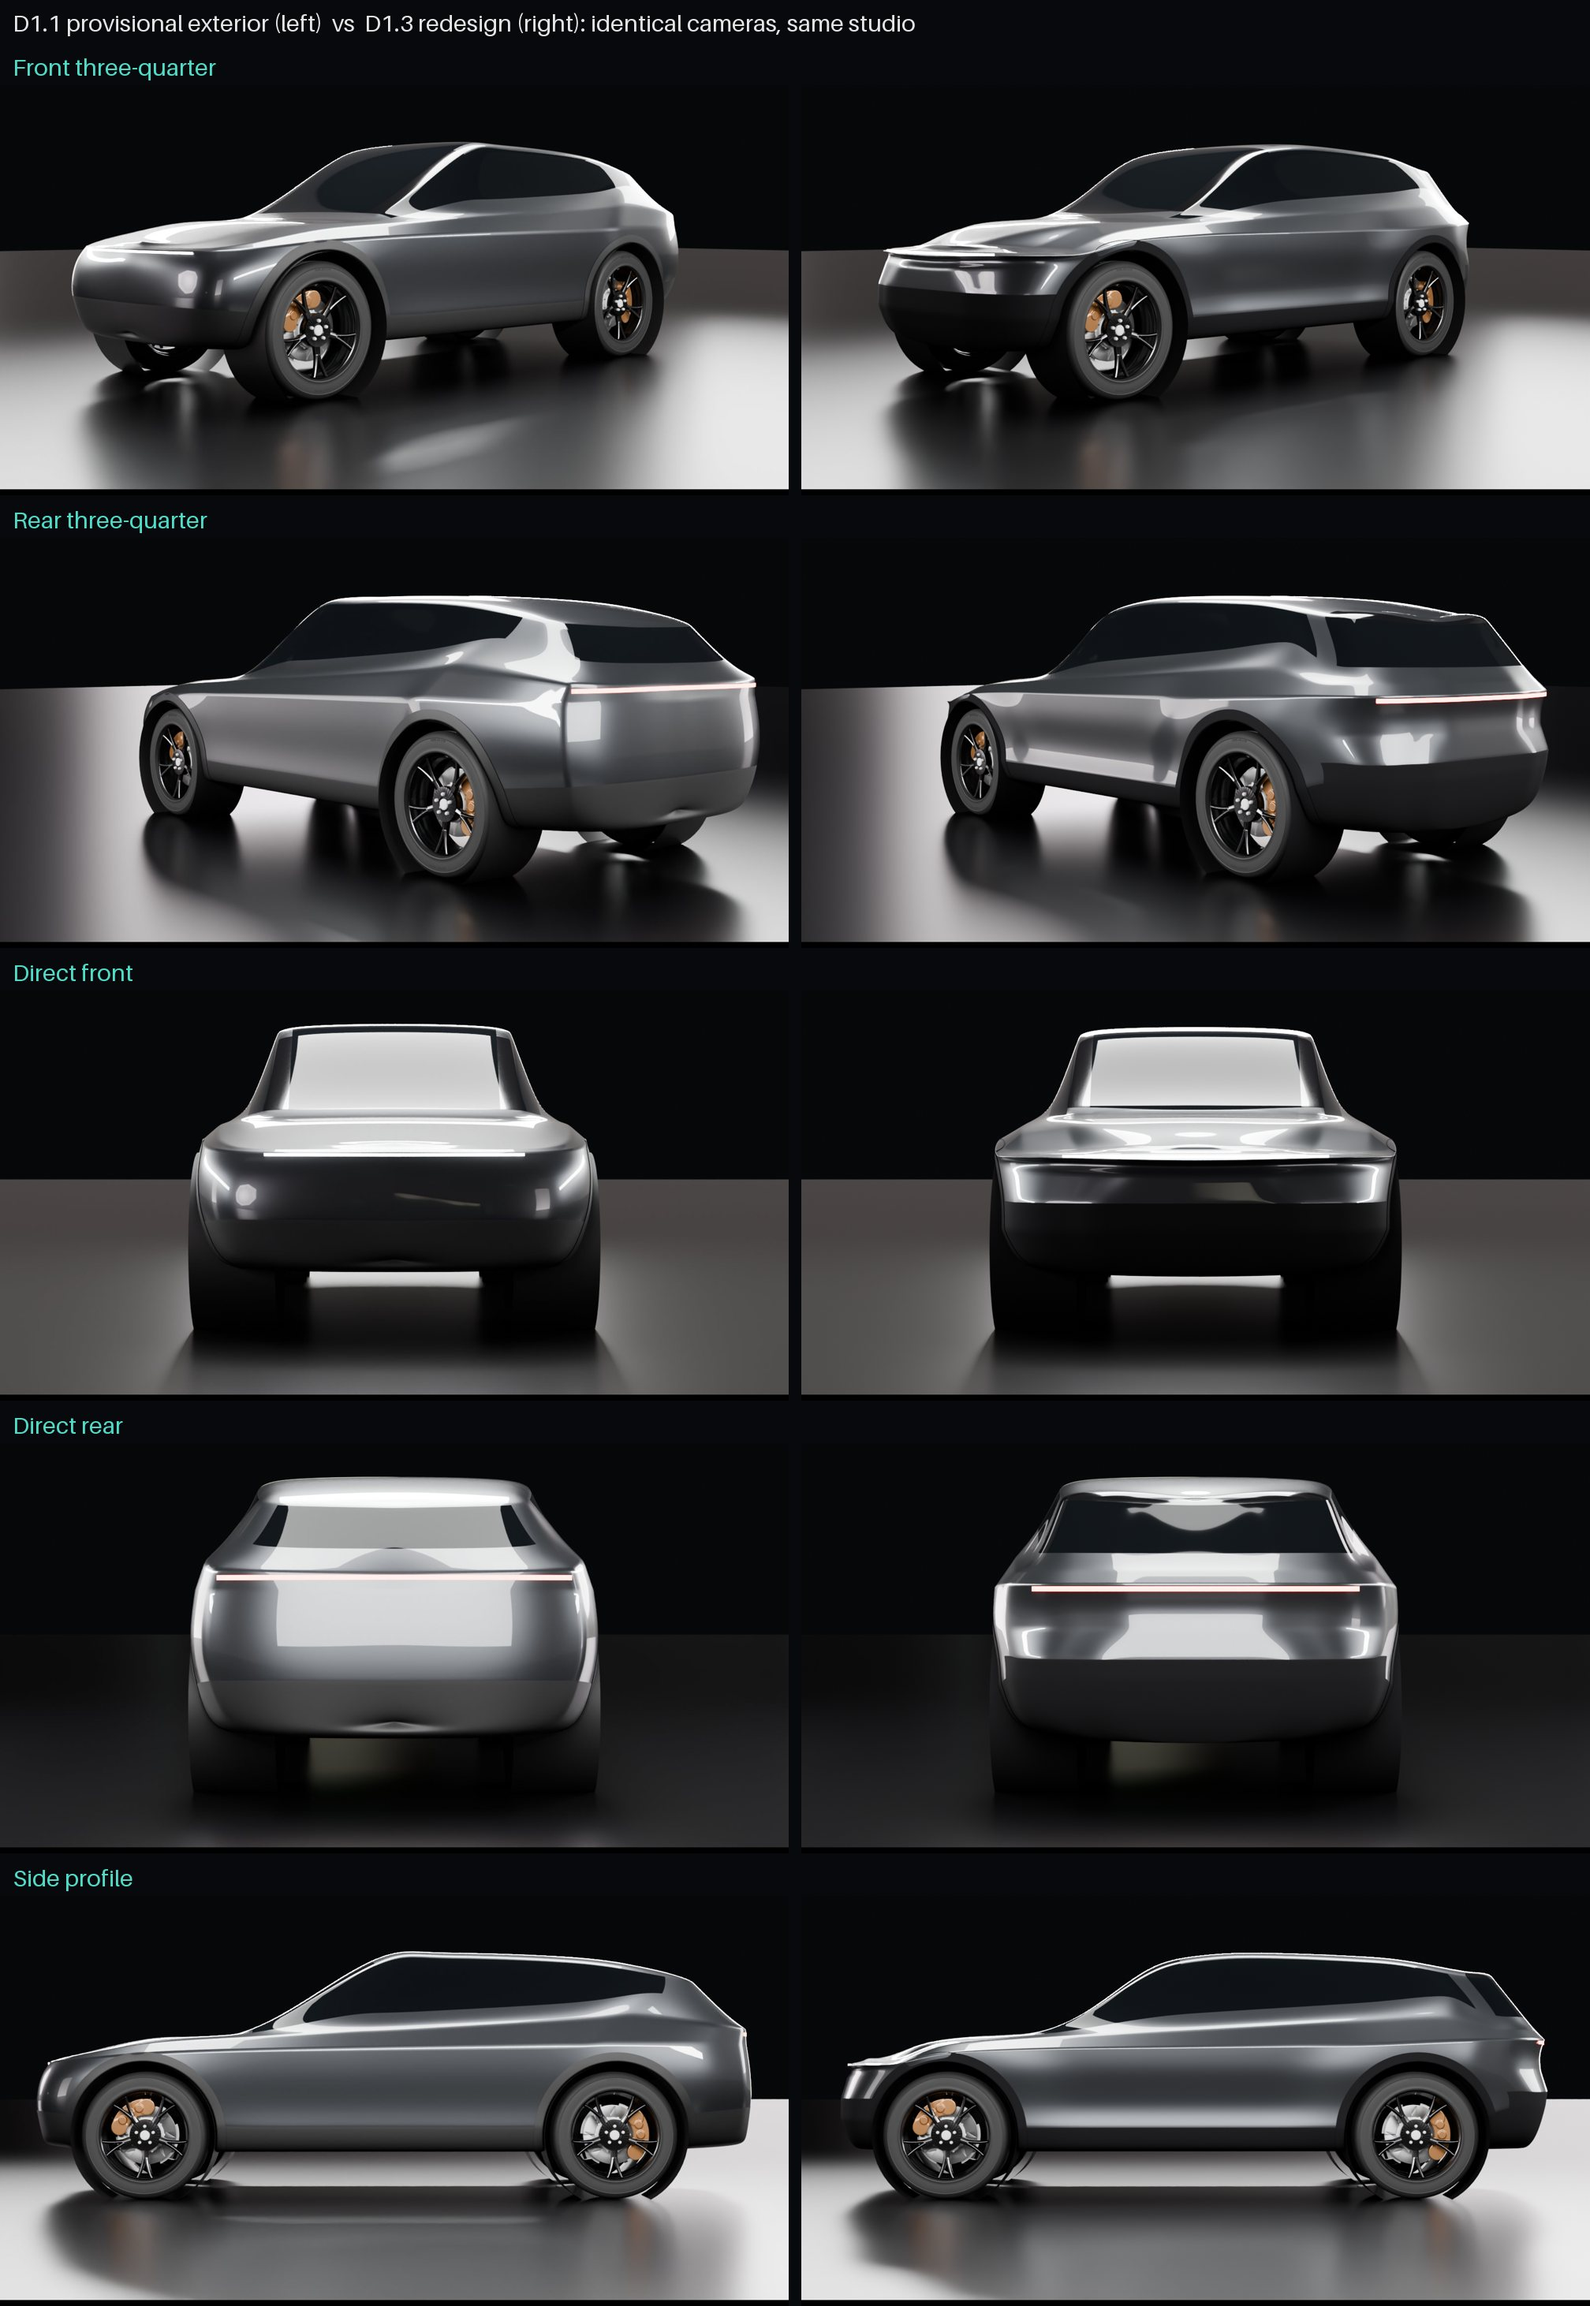
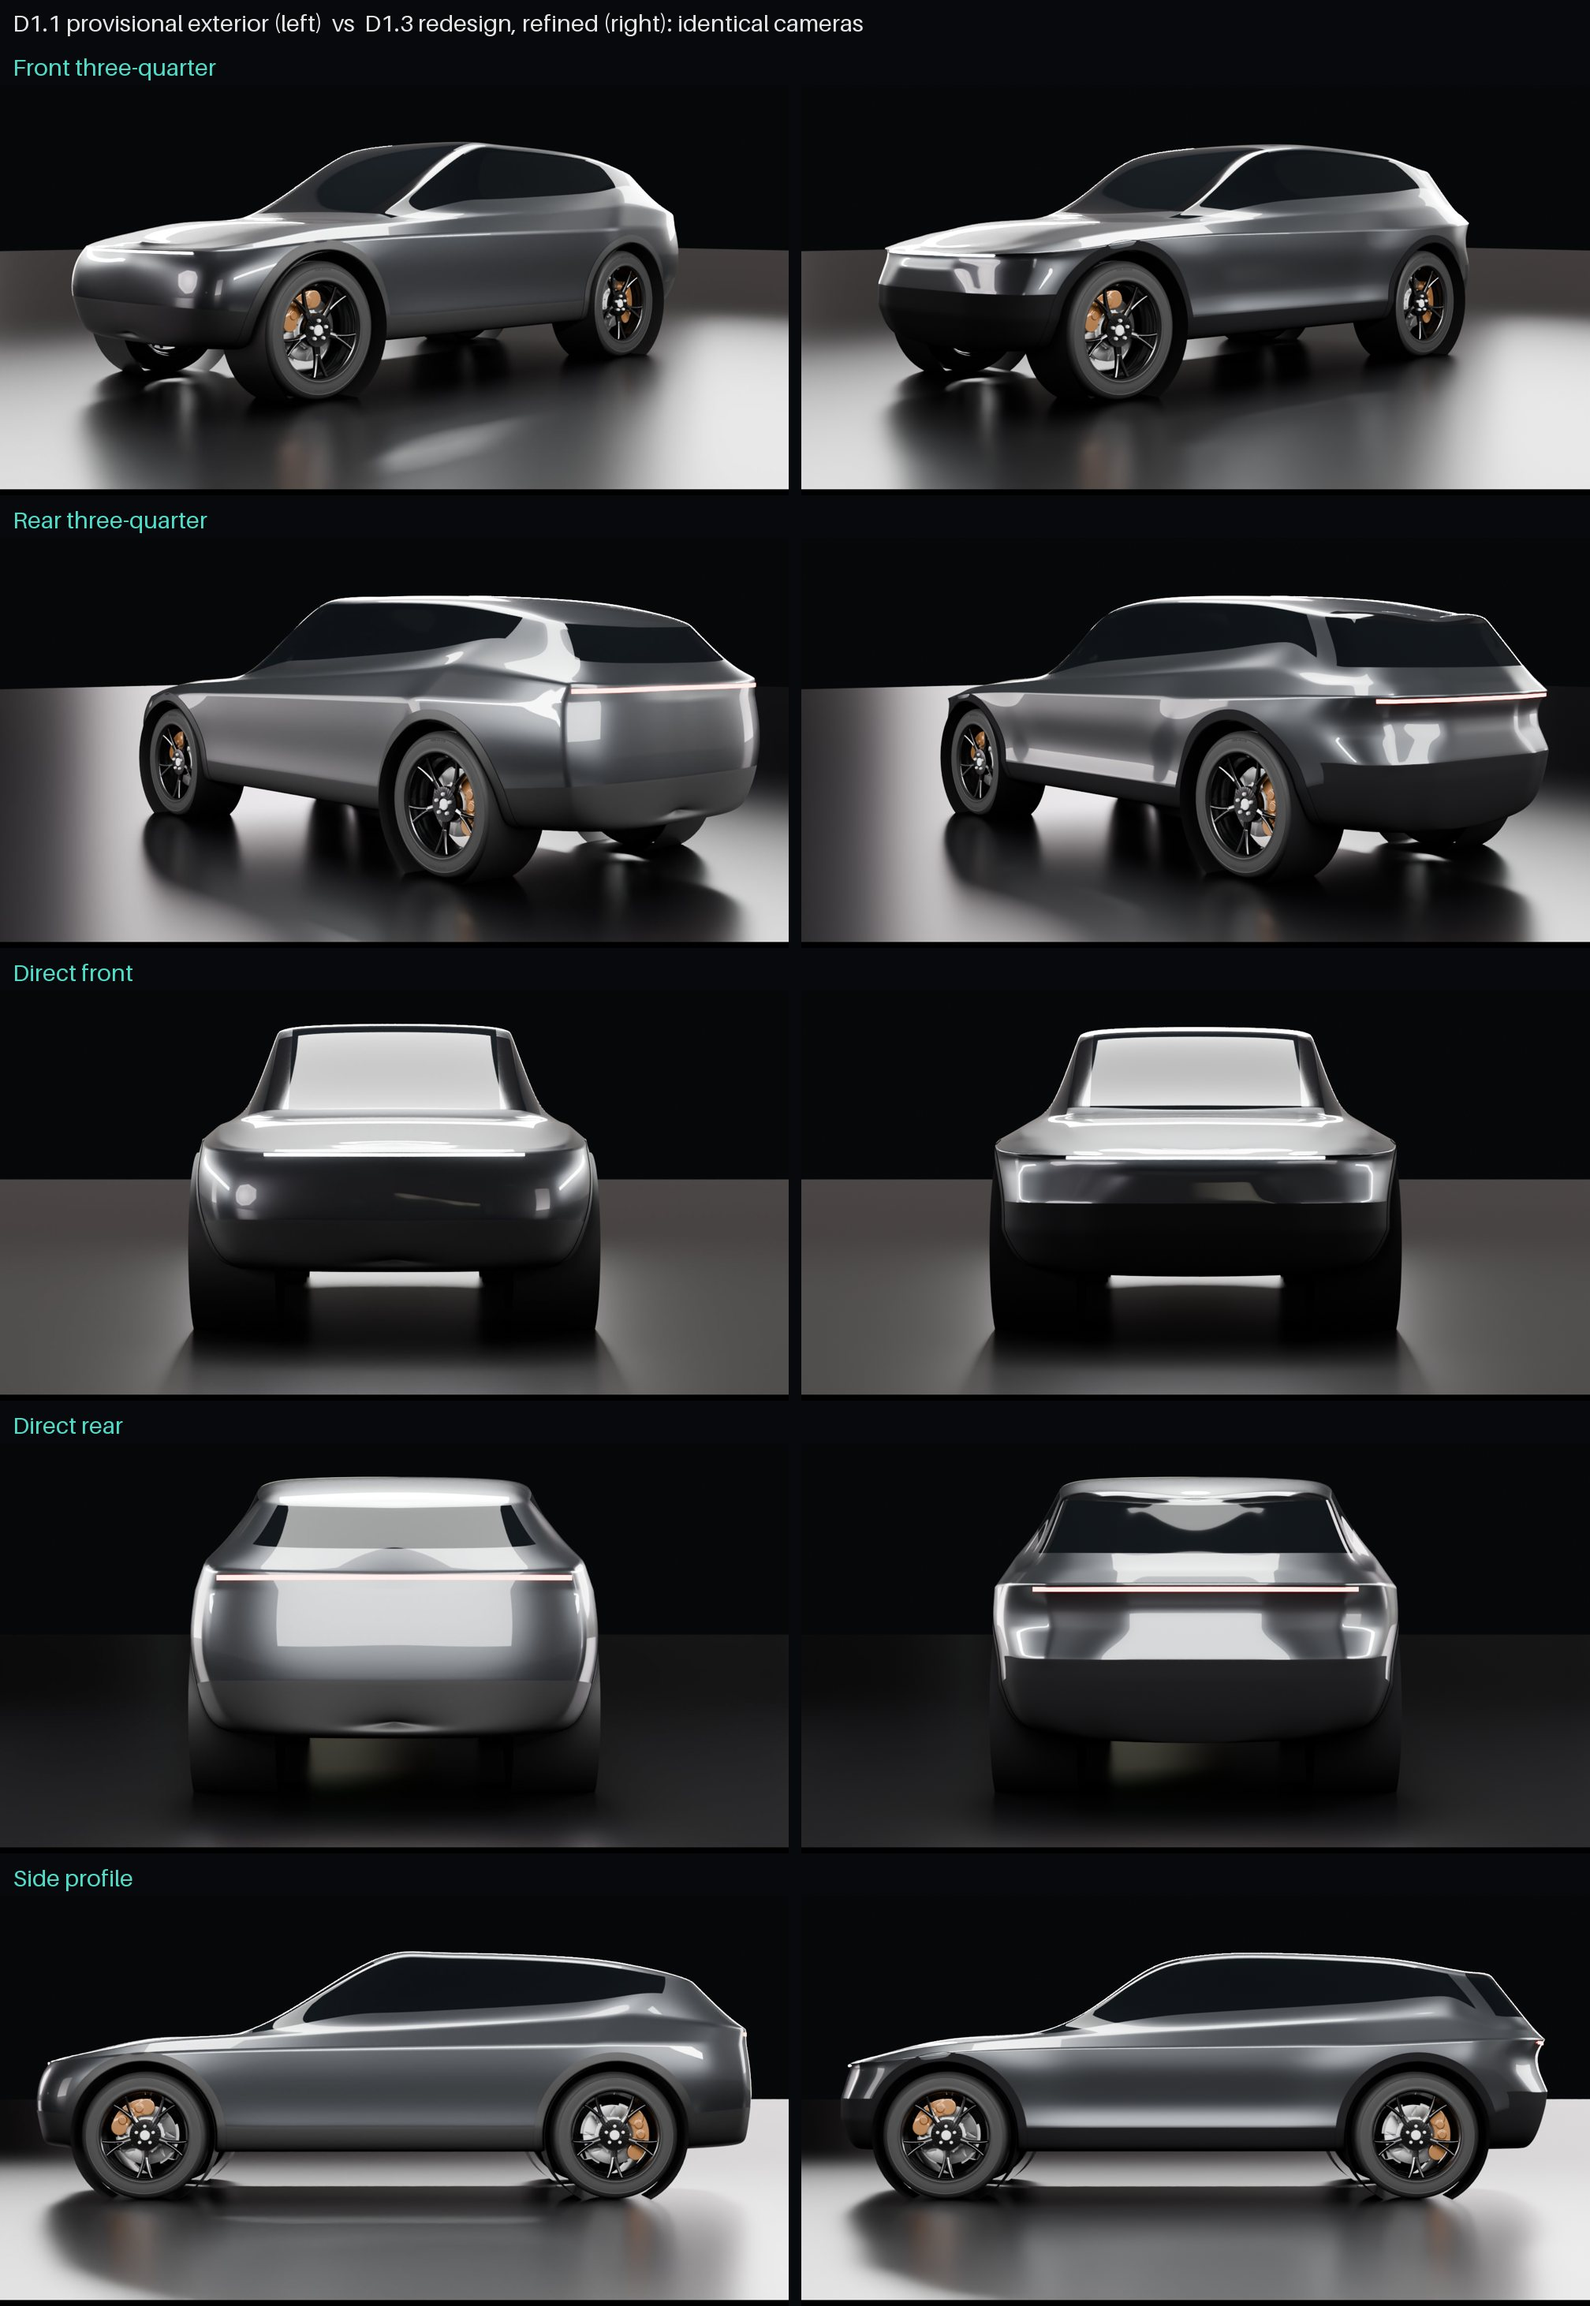
feat(d1): refine the D1.3 nose, front corners and tailgate
- Bonnet nose: the bonnet's lines follow one smooth profile round the nose,
  the beltline and window creases no longer run across it, and the edge
  overhangs the fascia by 2.5 cm. This removes the kink in side view.
- Front corners: a crease marks where the wing turns into the bumper.
- Tailgate: a deeper ledge, a set-back face wrapped further round the
  corners, and corner edges.

Fit check: the structure and mechanical assemblies are still inside.

diff --git a/blender/exterior_d13.py b/blender/exterior_d13.py
@@ -75,6 +75,7 @@ class Line:
     front: tuple
     rear: tuple
     flare: bool = False
+    follow: bool = False  # round the front corner, keep following the side-view curve (the bonnet's lines)
 
 
 W_MID = 0.962  # body side half-width between the arches
@@ -93,30 +94,30 @@ LINES = [
          (-2.405, 0.30, 0.04, None, 0.58), True),
     Line("body-side", [(-1.95, 0.82), (-1.75, 0.80), (-1.0, 0.78), (1.0, 0.78), (1.75, 0.785), (1.9, 0.78)],
          [(-1.95, 0.915), (-1.75, 0.962), (-1.0, W_MID), (1.0, W_MID), (1.75, 0.962), (1.9, 0.935)], (2.342, 0.42, 0.06, 0.76),
-         (-2.39, 0.42, 0.05, None), True),
-    Line("upper-fascia", [(-1.95, 0.925), (-1.75, 0.905), (-1.0, 0.895), (1.0, 0.89), (1.6, 0.88), (1.85, 0.83)],
-         [(-1.95, 0.92), (-1.75, 0.968), (-1.0, 0.966), (1.0, 0.966), (1.75, 0.968), (1.85, 0.945)], (2.29, 0.40, 0.05, 0.81),
-         (-2.375, 0.40, 0.05, None), True),
-    Line("shoulder", [(-1.98, 1.02), (-1.75, 1.005), (-1.0, 0.975), (0.0, 0.965), (1.0, 0.955), (1.55, 0.93), (1.89, 0.855)],
-         [(-1.98, 0.92), (-1.75, 0.97), (-1.0, 0.968), (1.0, 0.966), (1.75, 0.968), (1.9, 0.945)], (2.345, 0.38, 0.06, 0.835),
-         (-2.41, 0.38, 0.05, None), True),
-    Line("beltline", [(-2.01, 1.07), (-1.62, 1.16), (-1.15, 1.135), (-0.1, 1.08), (0.92, 1.03), (1.58, 0.985), (1.91, 0.865)],
+         (-2.38, 0.42, 0.06, None, 0.40), True),
+    Line("upper-fascia", [(-1.95, 0.925), (-1.75, 0.905), (-1.0, 0.895), (1.0, 0.89), (1.6, 0.88), (1.85, 0.845)],
+         [(-1.95, 0.92), (-1.75, 0.968), (-1.0, 0.966), (1.0, 0.966), (1.75, 0.968), (1.85, 0.945)], (2.305, 0.40, 0.05, 0.83),
+         (-2.355, 0.40, 0.07, None, 0.35), True),
+    Line("shoulder", [(-1.98, 1.02), (-1.75, 1.005), (-1.0, 0.975), (0.0, 0.965), (1.0, 0.955), (1.55, 0.93), (1.89, 0.888), (2.10, 0.87), (2.33, 0.855)],
+         [(-1.98, 0.92), (-1.75, 0.97), (-1.0, 0.968), (1.0, 0.966), (1.75, 0.968), (1.9, 0.945)], (2.33, 0.38, 0.06, None),
+         (-2.41, 0.38, 0.05, None), True, True),
+    Line("beltline", [(-2.01, 1.07), (-1.62, 1.16), (-1.15, 1.135), (-0.1, 1.08), (0.92, 1.03), (1.58, 0.985), (1.85, 0.95), (2.10, 0.90), (2.30, 0.862)],
          [(-2.01, 0.86), (-1.6, 0.90), (-1.0, 0.905), (0.9, 0.895), (1.58, 0.895), (1.92, 0.85)], (2.300, 0.34, 0.05, None),
-         (-2.35, 0.34, 0.05, None)),
-    Line("glass", [(-2.07, 1.12), (-1.96, 1.13), (-1.80, 1.29), (-1.20, 1.215), (-0.1, 1.13), (0.3, 1.115), (0.90, 1.06), (1.58, 1.0), (1.935, 0.872)],
+         (-2.35, 0.34, 0.05, None), follow=True),
+    Line("glass", [(-2.07, 1.12), (-1.96, 1.13), (-1.80, 1.29), (-1.20, 1.215), (-0.1, 1.13), (0.3, 1.115), (0.90, 1.06), (1.58, 1.0), (1.85, 0.96), (2.10, 0.905), (2.30, 0.865)],
          [(-2.07, 0.75), (-1.96, 0.76), (-1.8, 0.77), (-1.2, 0.83), (-0.1, 0.84), (0.3, 0.83), (0.9, 0.80), (1.58, 0.77), (1.94, 0.71)],
-         (2.275, 0.30, 0.04, None), (-2.30, 0.20, 0.04, None)),
-    Line("roof-edge", [(-1.82, 1.43), (-1.25, 1.52), (-0.35, 1.555), (0.08, 1.52), (0.80, 1.135), (1.0, 1.06), (1.58, 1.02), (1.965, 0.88)],
+         (2.275, 0.30, 0.04, None), (-2.30, 0.20, 0.04, None), follow=True),
+    Line("roof-edge", [(-1.82, 1.43), (-1.25, 1.52), (-0.35, 1.555), (0.08, 1.52), (0.80, 1.135), (1.0, 1.06), (1.58, 1.02), (1.85, 0.975), (2.10, 0.912), (2.30, 0.868)],
          [(-1.82, 0.66), (-1.25, 0.70), (-0.35, 0.705), (0.08, 0.69), (0.92, 0.70), (1.58, 0.66), (1.97, 0.58)],
-         (2.255, 0.26, 0.03, None), (-2.06, 0.22, 0.02, 1.40)),
-    Line("roof-rail", [(-1.83, 1.465), (-1.25, 1.555), (-0.35, 1.585), (0.10, 1.545), (0.81, 1.14), (1.01, 1.065), (1.58, 1.03), (1.85, 0.983), (1.985, 0.89)],
+         (2.255, 0.26, 0.03, None), (-2.06, 0.22, 0.02, 1.40), follow=True),
+    Line("roof-rail", [(-1.83, 1.465), (-1.25, 1.555), (-0.35, 1.585), (0.10, 1.545), (0.81, 1.14), (1.01, 1.065), (1.58, 1.03), (1.85, 0.983), (2.10, 0.916), (2.30, 0.87)],
          [(-1.83, 0.60), (-1.25, 0.64), (-0.35, 0.645), (0.10, 0.63), (0.93, 0.60), (1.58, 0.56), (1.99, 0.47)],
-         (2.245, 0.24, 0.02, None), (-2.05, 0.20, 0.02, 1.41)),
-    Line("roof", [(-1.875, 1.475), (-1.25, 1.57), (-0.35, 1.60), (0.12, 1.56), (0.82, 1.145), (1.02, 1.07), (1.58, 1.035), (1.85, 0.99), (2.075, 0.90)],
+         (2.245, 0.24, 0.02, None), (-2.05, 0.20, 0.02, 1.41), follow=True),
+    Line("roof", [(-1.875, 1.475), (-1.25, 1.57), (-0.35, 1.60), (0.12, 1.56), (0.82, 1.145), (1.02, 1.07), (1.58, 1.035), (1.85, 0.988), (2.10, 0.918), (2.30, 0.872)],
          [(-1.875, 0.36), (-1.25, 0.40), (-0.35, 0.40), (0.12, 0.39), (0.94, 0.36), (1.58, 0.34), (2.075, 0.28)],
-         (2.24, 0.15, 0.015, None), (-2.04, 0.15, 0.015, 1.415)),
+         (2.24, 0.15, 0.015, None), (-2.04, 0.15, 0.015, 1.415), follow=True),
     Line("roof-centre", [(-2.03, 1.418), (-1.89, 1.48), (-1.25, 1.575), (-0.35, 1.605), (0.13, 1.565), (0.83, 1.15), (1.03, 1.075),
-                         (1.58, 1.04), (1.85, 0.995), (2.09, 0.90), (2.235, 0.895)],
+                         (1.58, 1.04), (1.85, 0.99), (2.10, 0.92), (2.235, 0.882)],
          [(0, 0.0)], (2.235, 0, 0, None), (-2.03, 0, 0, None)),
 ]
 NAMES = [l.name for l in LINES]
@@ -125,6 +126,9 @@ FLAT = 0.40  # half-width of the faces' flat centre
 SIDE0 = N_FACE + N_ARC                     # first side station
 SIDE1 = SIDE0 + N_SIDE                     # first front-corner station
 CREASES = {"shoulder": 1.0, "beltline": 0.7, "cladding-top": 0.8, "roof-edge": 0.5}
+NOT_ACROSS_BONNET = {"beltline", "roof-edge"}  # these creases stop at the front corners: no ridge across the bonnet's nose
+# Vertical edges where the wings turn into the bumpers and the body sides into the tailgate (front and rear corners).
+CORNER_EDGES = {"front": (SIDE1 + 2, "lower-door", "shoulder", 0.6), "rear": (SIDE0 - 3, "lower-door", "shoulder", 0.6)}
 END_CREASES = {"body-side": 0.8, "lower-door": 0.6}  # the bumpers' top edge, front and rear only
 FLARE = {F: 0.038, R: 0.042}               # how far the body swells round each axle's opening (rear haunches wider)
 
@@ -181,7 +185,10 @@ def rail(line: Line) -> list[tuple[float, float, float]]:
     for k in range(N_SIDE):
         x = xs0 + (xs1 - xs0) * k / N_SIDE
         pts.append((x, fy(x), fz(x)))
-    pts += wrap(xs1, w1, rf, xf, bf, fy(xs1), yf, rear=False, flat_half=ff[0] if ff else FLAT)
+    front = wrap(xs1, w1, rf, xf, bf, fy(xs1), yf, rear=False, flat_half=ff[0] if ff else FLAT)
+    if line.follow:  # one smooth bonnet: the height keeps following the side-view curve round the nose
+        front = [(x, fy(x), z) for x, _, z in front]
+    pts += front
     if line.flare:
         pts = [(x, y, z + flare(x, y) * (1 if SIDE0 - 2 <= i <= SIDE1 + 2 else 0)) for i, (x, y, z) in enumerate(pts)]
     return pts
@@ -227,7 +234,14 @@ def build_shell() -> bpy.types.Object:
     for name, value in CREASES.items():
         c = NAMES.index(name)
         for s in range(n - 1):
+            if name in NOT_ACROSS_BONNET and s >= SIDE1:
+                continue
             e = bm.edges.get((grid[s][c], grid[s + 1][c]))
+            if e:
+                e[crease] = value
+    for s, lo, hi, value in CORNER_EDGES.values():
+        for c in range(NAMES.index(lo), NAMES.index(hi)):
+            e = bm.edges.get((grid[s][c], grid[s][c + 1]))
             if e:
                 e[crease] = value
     for name, value in END_CREASES.items():

diff --git a/docs/d1/d1.3/README.md b/docs/d1/d1.3/README.md
@@ -75,3 +75,20 @@ the bright studio floor and looked grey.
 - **Next refinements, for this phase or after your approval:**
   - The front corners' transition from the bumper to the wing.
   - A small kink where the bonnet's nose meets the fascia band in side view.
+
+## Refinement pass after your review (1 November 2026)
+
+- **Bonnet nose kink removed.**
+  - The bonnet's lines now follow one smooth, steadily curving profile from the cowl round the nose. Before, they
+    held a constant height round the corner while the centre kept falling.
+  - The creases of the beltline and the window line stop at the front corners, so there's no ridge across the
+    nose.
+  - The bonnet edge overhangs the fascia by 2.5 cm (was 5.5 cm).
+  - The bonnet still clears the front towers and the front-end carrier.
+- **Front corners:** a defined vertical edge where the wing turns into the bumper.
+- **Tailgate:**
+  - a deeper ledge;
+  - the face under it set back and wrapped further round the corners;
+  - corner edges where the body sides turn into the tail.
+- **Fit:** still nothing from the structure or the mechanical assemblies outside the shell. The comparison sheet
+  and the D1.3 views above are updated.
